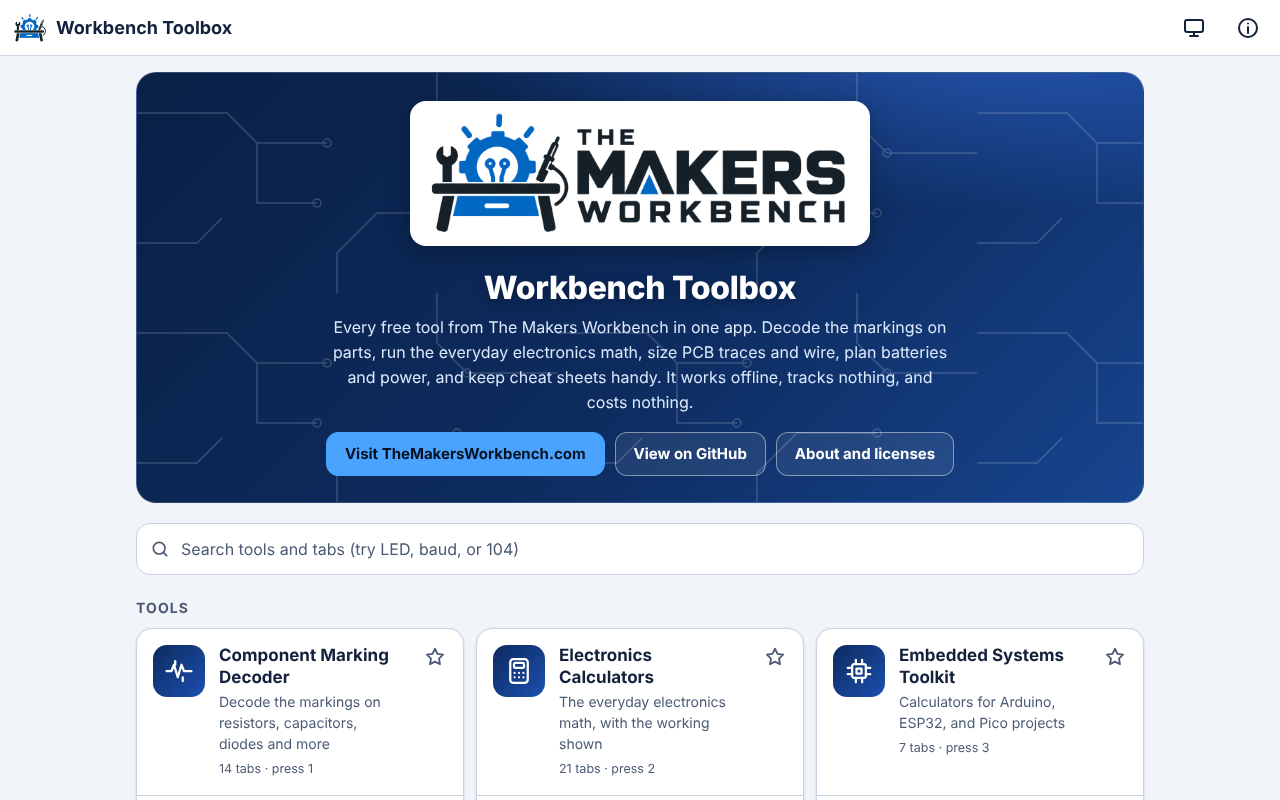
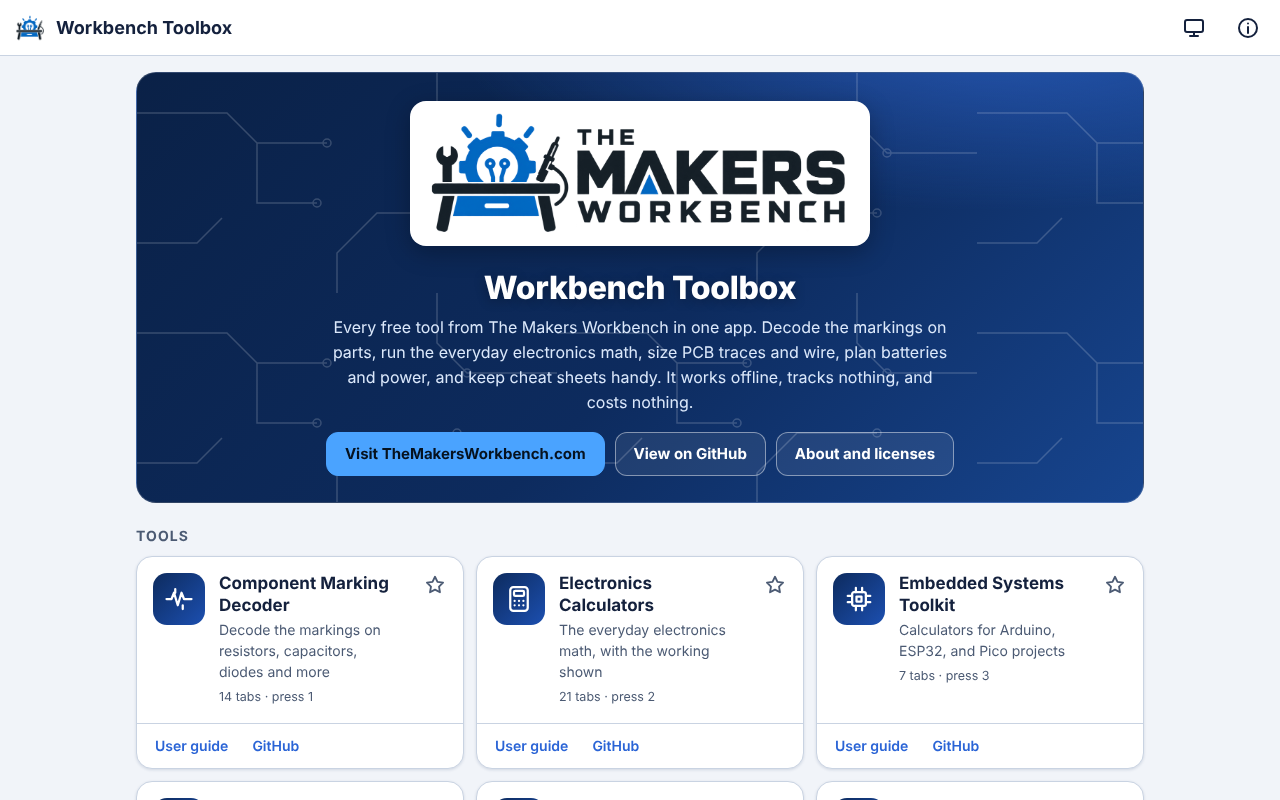
Remove the search box from the home screen
Claude-Session: https://claude.ai/code/session_012uTvwniDDWqvDdp56FWrid

Changed region(s): [[0.0938, 0.6562, 0.875, 1.0], [0.0, 0.0, 0.0312, 0.0625]]

diff --git a/www/shell.js b/www/shell.js
@@ -3,7 +3,7 @@
   'use strict';
   var REG = window.TMWB_REGISTRY, TOOLS = REG.tools;
   var $ = function (id) { return document.getElementById(id); };
-  var home = $('homeView'), host = $('toolHost'), about = $('aboutView'), body = $('homeBody'), search = $('search');
+  var home = $('homeView'), host = $('toolHost'), about = $('aboutView'), body = $('homeBody');
   var backBtn = $('backBtn'), topTitle = $('topTitle'), themeBtn = $('themeBtn'), loading = $('loading');
   var NS = 'http://www.w3.org/2000/svg';
 
@@ -73,44 +73,13 @@
     var s = el('div'); s.appendChild(el('h2', 'sec', title));
     var g = el('div', 'grid'); tools.forEach(function (t) { g.appendChild(card(t, TOOLS.indexOf(t))); }); s.appendChild(g); return s;
   }
-  function words(q) { return q.toLowerCase().split(/[^a-z0-9.µΩ+#]+/).filter(Boolean); }
-  function hay(s) { return s.toLowerCase(); }
   function renderHome() {
-    var q = search.value.trim(); body.textContent = '';
-    if (!q) {
-      var fv = favs.map(toolById).filter(Boolean), rc = recents.map(toolById).filter(Boolean);
-      if (fv.length) body.appendChild(section('Favorites', fv));
-      if (rc.length) body.appendChild(section('Recently used', rc));
-      body.appendChild(section(fv.length || rc.length ? 'All tools' : 'Tools', TOOLS));
-      return;
-    }
-    var ws = words(q), toolHits = [], tabHits = [];
-    TOOLS.forEach(function (t) {
-      var th = hay(t.name + ' ' + t.tagline);
-      if (ws.every(function (w) { return th.indexOf(w) >= 0; })) toolHits.push(t);
-      t.tabs.forEach(function (tab, i) {
-        var h = hay(tab + ' ' + t.name);
-        if (ws.every(function (w) { return h.indexOf(w) >= 0; }) && ws.some(function (w) { return tab.toLowerCase().indexOf(w) >= 0; })) tabHits.push([t, tab, i]);
-      });
-    });
-    if (toolHits.length) body.appendChild(section('Tools', toolHits));
-    if (tabHits.length) {
-      body.appendChild(el('h2', 'sec', 'Tabs inside tools'));
-      var ul = el('ul', 'tabhits');
-      tabHits.forEach(function (h) {
-        var li = el('li'), a = el('a'); a.href = '#/t/' + h[0].id + '?tab=' + encodeURIComponent(h[1]);
-        a.appendChild(el('strong', null, h[1])); a.appendChild(el('small', null, 'in ' + h[0].name));
-        li.appendChild(a); ul.appendChild(li);
-      });
-      body.appendChild(ul);
-    }
-    if (!toolHits.length && !tabHits.length) body.appendChild(el('p', 'empty', 'Nothing matches "' + q + '". Try a part name, a unit, or a tool name.'));
+    body.textContent = '';
+    var fv = favs.map(toolById).filter(Boolean), rc = recents.map(toolById).filter(Boolean);
+    if (fv.length) body.appendChild(section('Favorites', fv));
+    if (rc.length) body.appendChild(section('Recently used', rc));
+    body.appendChild(section(fv.length || rc.length ? 'All tools' : 'Tools', TOOLS));
   }
-  search.addEventListener('input', renderHome);
-  search.addEventListener('keydown', function (e) {
-    if (e.key === 'Enter') { var a = body.querySelector('.tabhits a, .card'); if (a) a.click(); }
-    if (e.key === 'Escape' && search.value) { search.value = ''; renderHome(); e.stopPropagation(); }
-  });
 
   /* ---------- tool mounting ---------- */
   var cssDone = {}, scriptP = {}, mounted = {};
@@ -225,7 +194,6 @@
     if (typing || e.ctrlKey || e.metaKey || e.altKey) return;
     var v = parse().view;
     if (e.key === 'Escape') { if (v !== 'home') goHome(); }
-    else if (e.key === '/') { if (v !== 'home') location.hash = '#/'; e.preventDefault(); setTimeout(function () { search.focus(); search.select(); }, 0); }
     else if (e.key === '?') showKeys();
     else if (e.key === 't' || e.key === 'T') cycleTheme();
     else if (v === 'home' && /^[1-9]$/.test(e.key) && TOOLS[+e.key - 1]) location.hash = '#/t/' + TOOLS[+e.key - 1].id;

diff --git a/www/shell.css b/www/shell.css
@@ -61,11 +61,6 @@ main{max-width:1040px;margin:0 auto;padding:16px 16px calc(32px + var(--safe-b))
 .homefoot p{margin:6px 0}
 .homefoot .hack{color:var(--ink);font-weight:800;font-size:17px;margin-top:0}
 .homefoot a{display:inline-block;padding:10px 4px}
-.searchwrap{position:relative;margin:4px 0 20px}
-.searchwrap svg{position:absolute;left:14px;top:50%;transform:translateY(-50%);width:20px;height:20px;fill:none;stroke:var(--mute);stroke-width:2;stroke-linecap:round;pointer-events:none}
-.searchwrap input{width:100%;min-height:52px;padding:0 16px 0 44px;font:inherit;font-size:16px;color:var(--ink);background:var(--surface);border:1px solid var(--line);border-radius:14px}
-.searchwrap input::placeholder{color:var(--mute)}
-
 h2.sec{margin:22px 0 10px;font-size:14px;letter-spacing:.08em;text-transform:uppercase;color:var(--mute);font-weight:700}
 .grid{display:grid;grid-template-columns:repeat(auto-fill,minmax(290px,1fr));gap:12px}
 .card{position:relative;display:flex;gap:14px;align-items:flex-start;padding:16px;min-height:88px;background:transparent;border:0;border-radius:16px 16px 0 0;color:inherit;text-decoration:none;cursor:pointer;text-align:left;font:inherit;width:100%}
@@ -88,11 +83,6 @@ h2.sec{margin:22px 0 10px;font-size:14px;letter-spacing:.08em;text-transform:upp
 .fav[aria-pressed=true]{color:#f5b301}
 .fav[aria-pressed=true] svg{fill:currentColor}
 
-.tabhits{list-style:none;margin:0;padding:0;display:grid;gap:8px}
-.tabhits a{display:flex;align-items:center;gap:8px;min-height:48px;padding:8px 14px;background:var(--surface);border:1px solid var(--line);border-radius:12px;text-decoration:none;color:var(--ink)}
-.tabhits a:hover{border-color:var(--blue)}
-.tabhits small{color:var(--mute)}
-.empty{color:var(--mute);padding:20px 0}
 
 #toolHost .toolwrap{padding-bottom:8px}
 .loading{position:fixed;left:50%;bottom:calc(24px + var(--safe-b));transform:translateX(-50%);background:var(--navy);color:#fff;padding:10px 18px;border-radius:999px;z-index:30}
@@ -133,3 +123,4 @@ kbd{font:600 13px ui-monospace,Consolas,monospace;background:var(--surface2);bor
 }
 @media (hover:none),(pointer:coarse){.kbdhint{display:none}}
 .brand img{background:#fff;border-radius:8px;padding:2px}
+.empty{color:var(--mute);padding:20px 0}

diff --git a/www/index.html b/www/index.html
@@ -56,11 +56,6 @@
         </div>
       </div>
     </div>
-    <div class="searchwrap">
-      <label for="search" class="sr">Search tools and tabs</label>
-      <svg viewBox="0 0 24 24" aria-hidden="true"><circle cx="11" cy="11" r="7"/><path d="M20 20l-4-4"/></svg>
-      <input id="search" type="search" placeholder="Search tools and tabs (try LED, baud, or 104)" autocomplete="off" autocapitalize="off" spellcheck="false" enterkeyhint="search">
-    </div>
     <div id="homeBody"></div>
     <footer class="homefoot">
       <p class="hack">Hack The World &amp; Make Awesome!</p>
@@ -78,7 +73,6 @@
 <dialog id="keysDialog" aria-labelledby="keysTitle">
   <h2 id="keysTitle">Keyboard shortcuts</h2>
   <dl class="keys">
-    <dt><kbd>/</kbd></dt><dd>Search tools and tabs</dd>
     <dt><kbd>1</kbd> to <kbd>6</kbd></dt><dd>Open a tool from the home screen</dd>
     <dt><kbd>Esc</kbd> or <kbd>Alt</kbd>+<kbd>Left</kbd></dt><dd>Back to all tools</dd>
     <dt><kbd>T</kbd></dt><dd>Change theme</dd>

diff --git a/e2e/smoke.spec.js b/e2e/smoke.spec.js
@@ -68,17 +68,6 @@ test('every tab of every tool opens without errors', async ({ page }) => {
   expect(errors).toEqual([]);
 });
 
-test('search finds tabs inside tools and opens them', async ({ page }) => {
-  await page.goto('/');
-  await page.locator('#search').fill('baud');
-  const hit = page.locator('.tabhits a', { hasText: 'UART' }).first();
-  await expect(hit).toBeVisible();
-  await hit.click();
-  await expect(page.locator('.toolwrap[data-tool="embedded"] .tabbar button[aria-selected="true"]')).toContainText('UART');
-  await page.locator('#backBtn').click();
-  await expect(page.locator('#homeView')).toBeVisible();
-});
-
 test('favorites and recents are remembered', async ({ page }) => {
   await page.goto('/');
   await page.locator('.cardwrap').nth(2).locator('.fav').click();

diff --git a/www/sw.js b/www/sw.js
@@ -1,5 +1,5 @@
 /* Generated by scripts/build-sw.mjs. Do not edit by hand. */
-const CACHE = 'tmwb-toolbox-c52abb815476';
+const CACHE = 'tmwb-toolbox-46f674cd0607';
 const FILES = [
  "./",
  "icons/apple-touch-icon.png",
